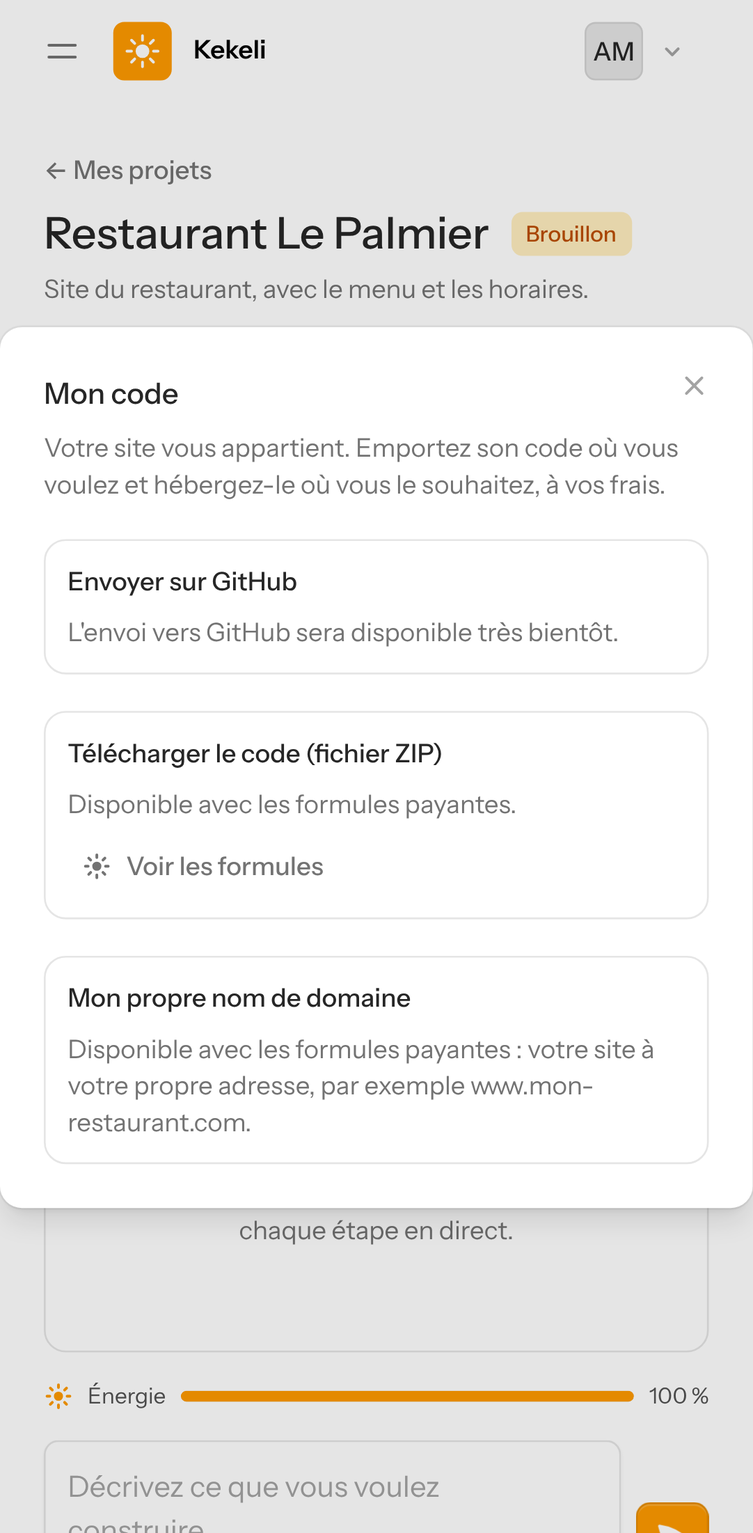
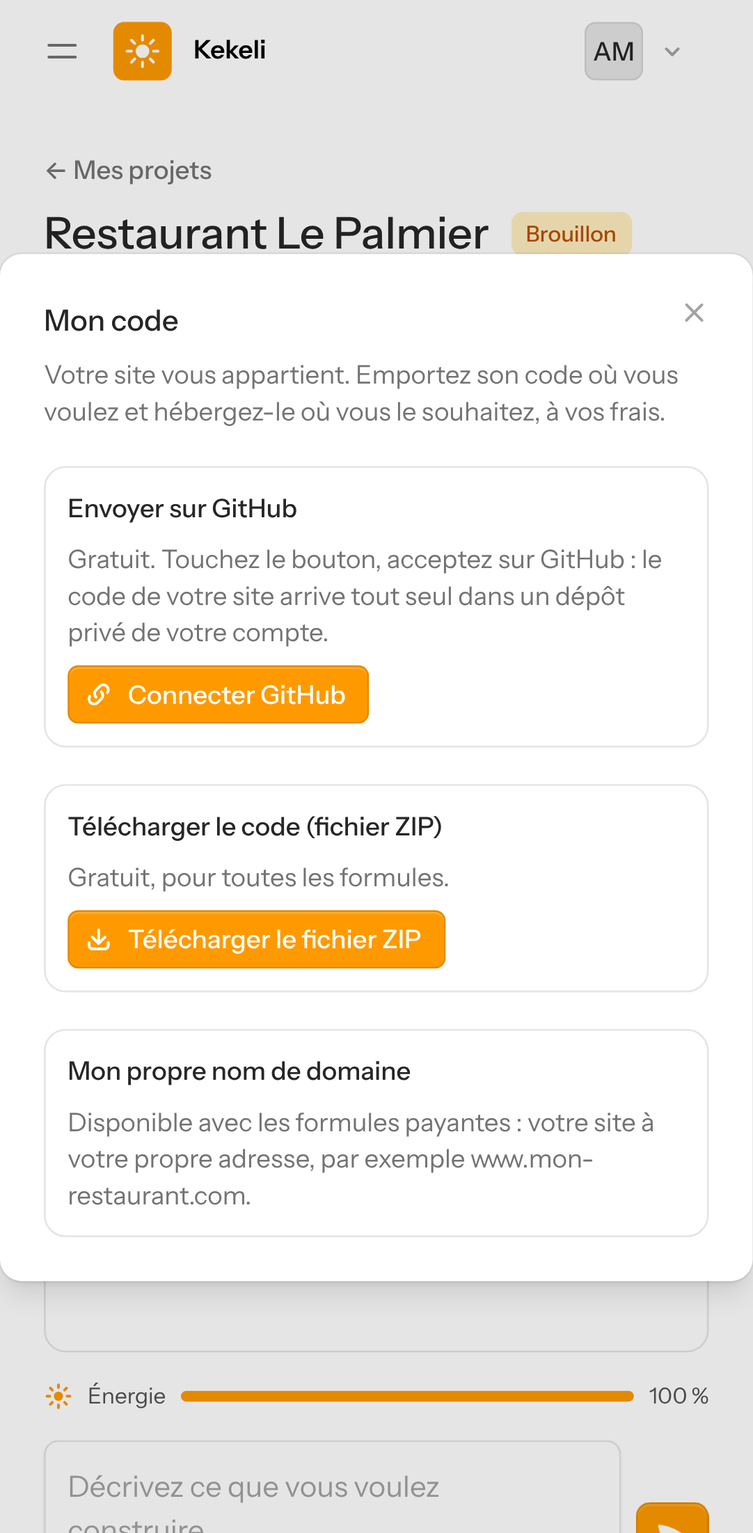
Code du client gratuit pour tous, alertes de sécurité corrigées, coût réel de la mise en ligne
- Récupérer son code est gratuit et se fait en un geste : « Connecter GitHub », la personne accepte, et le code part aussitôt dans un dépôt privé ; le fichier ZIP devient gratuit pour toutes les formules. Seul le nom de domaine du client reste payant.
- Plan : GitLab et Bitbucket plus tard, avec la même simplicité ; comparaison avec Lovable et v0.
- Composants Symfony mis à jour en version 7.4.23 : plus aucune alerte de sécurité de Composer.
- Tâche de fin des formules une fois par jour (0 h 07, heure de Lomé), pour laisser dormir le site et la base.
- docs/mise-en-ligne.md : abonnement par organisation, crédit déjà utilisé, limite de dépense valable pour toute l'organisation, coût réel de Kekeli en plus de la facture actuelle, deux solutions pour surveiller le coût sans jamais couper Talkami ni Lomé IA School.

Claude-Session: https://claude.ai/code/session_015PWp2nHrMWtdtRTiq6YtkN

Changed region(s): [[0.0, 0.1544, 1.0, 0.8647], [0.915, 0.6176, 0.9455, 0.6485], [0.915, 0.4632, 0.9455, 0.4941]]

diff --git a/tests/Feature/ClientCodeTest.php b/tests/Feature/ClientCodeTest.php
@@ -45,12 +45,13 @@ class ClientCodeTest extends TestCase
         $this->assertSame('<h1>Le Palmier</h1>', $files['index.html']);
     }
 
-    public function test_paid_formulas_download_the_code_in_a_zip_file(): void
+    public function test_every_formula_downloads_the_code_in_a_zip_file_for_free(): void
     {
-        $paying = User::factory()->create(['plan' => 'pro', 'plan_expires_at' => now()->addDays(10)]);
-        $project = $this->builtProject($paying);
+        $free = User::factory()->create();
+        $project = $this->builtProject($free);
 
-        $response = $this->actingAs($paying)->get(route('projects.code.zip', $project));
+        $this->actingAs($free)->get(route('projects.show', $project))->assertSee('Gratuit, pour toutes les formules.');
+        $response = $this->actingAs($free)->get(route('projects.code.zip', $project));
         $response->assertOk()->assertDownload($project->pagesName().'.zip');
 
         $zip = new ZipArchive;
@@ -59,15 +60,13 @@ class ClientCodeTest extends TestCase
         $this->assertFalse($zip->getFromName($project->pagesName().'/.env'));
         $zip->close();
 
-        // Formule gratuite : pas de fichier ZIP ; un autre utilisateur ne voit jamais le projet.
-        $free = User::factory()->create();
-        $this->actingAs($free)->get(route('projects.code.zip', $this->builtProject($free)))->assertForbidden();
-        $this->actingAs(User::factory()->create(['plan' => 'pro', 'plan_expires_at' => now()->addDay()]))->get(route('projects.code.zip', $project))->assertNotFound();
+        // Un autre utilisateur ne voit jamais le projet.
+        $this->actingAs(User::factory()->create())->get(route('projects.code.zip', $project))->assertNotFound();
     }
 
     // GitHub, pour toutes les formules
 
-    public function test_the_client_connects_github_then_sends_the_code_even_with_the_free_formula(): void
+    public function test_one_gesture_connects_github_and_sends_the_code_even_with_the_free_formula(): void
     {
         Queue::fake();
         $user = User::factory()->create();
@@ -75,10 +74,10 @@ class ClientCodeTest extends TestCase
 
         $this->actingAs($user)->get(route('projects.show', $project))
             ->assertSee('Mon code')
-            ->assertSee('Connecter mon compte GitHub');
+            ->assertSee('Connecter GitHub');
 
         // Connexion : GitHub demande l'accord du client, puis revient sur Kekeli avec un code à usage unique.
-        $redirect = $this->actingAs($user)->get(route('github.connect', ['retour' => route('projects.show', $project)]));
+        $redirect = $this->actingAs($user)->get(route('github.connect', ['projet' => $project->id]));
         $this->assertStringStartsWith('https://github.com/login/oauth/authorize?', $redirect->headers->get('Location'));
         parse_str(parse_url($redirect->headers->get('Location'), PHP_URL_QUERY), $query);
         $this->assertSame('repo', $query['scope']);
@@ -96,10 +95,24 @@ class ClientCodeTest extends TestCase
         // La clé est chiffrée dans la base de données.
         $this->assertStringNotContainsString('cle-du-client', (string) $user->getRawOriginal('github_token'));
 
-        $this->actingAs($user)->get(route('projects.show', $project))->assertSee('Compte GitHub connecté : ama-mensah');
-        Volt::actingAs($user)->test('projects.show', ['project' => $project])->call('exportToGithub');
+        // Le code part aussitôt, sans autre geste du client.
         $this->assertSame(Project::GITHUB_IN_PROGRESS, $project->fresh()->github_status);
-        Queue::assertPushed(ExportToGithub::class);
+        Queue::assertPushed(ExportToGithub::class, fn (ExportToGithub $job) => $job->project->is($project));
+        $this->actingAs($user)->get(route('projects.show', $project))
+            ->assertSee('Compte GitHub connecté : ama-mensah')
+            ->assertSee('Envoi de votre code sur GitHub…');
+
+        // Plus tard, « Envoyer à nouveau » renvoie la dernière version.
+        $project->forceFill(['github_status' => Project::GITHUB_DONE, 'github_repo' => 'ama-mensah/le-palmier'])->save();
+        Volt::actingAs($user)->test('projects.show', ['project' => $project])->call('exportToGithub');
+        Queue::assertPushed(ExportToGithub::class, 2);
+
+        // Le projet d'un autre utilisateur n'est jamais envoyé.
+        $other = $this->builtProject(User::factory()->create());
+        $redirect = $this->actingAs($user)->get(route('github.connect', ['projet' => $other->id]));
+        parse_str(parse_url($redirect->headers->get('Location'), PHP_URL_QUERY), $query);
+        $this->actingAs($user)->get(route('github.callback', ['code' => 'code-2', 'state' => $query['state']]));
+        $this->assertNull($other->fresh()->github_status);
     }
 
     public function test_a_wrong_state_is_refused_and_never_redirects_to_another_site(): void

diff --git a/resources/views/livewire/projects/show.blade.php b/resources/views/livewire/projects/show.blade.php
@@ -313,7 +313,7 @@ new class extends Component {
     }
 
     /**
-     * ZIP file and own domain name: paid formulas only.
+     * Own domain name: paid formulas only (the code itself, GitHub and ZIP, is free for everyone).
      */
     #[Computed]
     public function paidPlan(): bool
@@ -960,14 +960,14 @@ new class extends Component {
                 @unless ($project->backup_at)
                     <flux:text class="text-sm">{{ __('Once Kekeli has built your site, you can take its code here.') }}</flux:text>
                 @else
-                    {{-- GitHub : toutes les formules. --}}
+                    {{-- GitHub : gratuit pour toutes les formules. Un seul geste : « Connecter GitHub », on accepte, le code arrive tout seul. --}}
                     <div class="space-y-2 rounded-xl border border-zinc-200 p-3 dark:border-zinc-700" data-github="{{ $project->github_status ?? 'none' }}">
                         <flux:heading size="sm">{{ __('Send to GitHub') }}</flux:heading>
                         @if (! $this->githubConfigured)
                             <flux:text class="text-sm">{{ __('Sending to GitHub will be available very soon.') }}</flux:text>
                         @elseif (! Auth::user()->github_token)
-                            <flux:text class="text-sm">{{ __('Connect your GitHub account once: Kekeli will put the code of your site in a private repository of your account.') }}</flux:text>
-                            <flux:button size="sm" variant="primary" icon="link" :href="route('github.connect', ['retour' => route('projects.show', $project)])" data-github-connect>{{ __('Connect my GitHub account') }}</flux:button>
+                            <flux:text class="text-sm">{{ __('Free. Tap the button, accept on GitHub: the code of your site arrives by itself in a private repository of your account.') }}</flux:text>
+                            <flux:button size="sm" variant="primary" icon="link" :href="route('github.connect', ['projet' => $project->id])" data-github-connect>{{ __('Connect GitHub') }}</flux:button>
                         @else
                             <flux:text class="text-sm">{{ __('Connected GitHub account: :login', ['login' => Auth::user()->github_login]) }}</flux:text>
                             @if ($project->github_status === Project::GITHUB_IN_PROGRESS)
@@ -989,15 +989,11 @@ new class extends Component {
                         @endif
                     </div>
 
-                    {{-- ZIP : formules payantes. --}}
+                    {{-- ZIP : gratuit pour toutes les formules. --}}
                     <div class="space-y-2 rounded-xl border border-zinc-200 p-3 dark:border-zinc-700" data-zip>
                         <flux:heading size="sm">{{ __('Download the code (ZIP file)') }}</flux:heading>
-                        @if ($this->paidPlan)
-                            <flux:button size="sm" variant="primary" icon="arrow-down-tray" :href="route('projects.code.zip', $project)" data-zip-download>{{ __('Download the ZIP file') }}</flux:button>
-                        @else
-                            <flux:text class="text-sm">{{ __('Available with the paid formulas.') }}</flux:text>
-                            <flux:button size="sm" variant="subtle" icon="sun" :href="route('plans')" wire:navigate>{{ __('See the formulas') }}</flux:button>
-                        @endif
+                        <flux:text class="text-sm">{{ __('Free, for every formula.') }}</flux:text>
+                        <flux:button size="sm" variant="primary" icon="arrow-down-tray" :href="route('projects.code.zip', $project)" data-zip-download>{{ __('Download the ZIP file') }}</flux:button>
                     </div>
 
                     {{-- Nom de domaine : formules payantes, une fois le site publié. --}}

diff --git a/app/Http/Controllers/GithubController.php b/app/Http/Controllers/GithubController.php
@@ -3,6 +3,8 @@
 namespace App\Http\Controllers;
 
 use App\Github\GithubClient;
+use App\Jobs\ExportToGithub;
+use App\Models\Project;
 use Illuminate\Http\RedirectResponse;
 use Illuminate\Http\Request;
 use Illuminate\Support\Facades\Auth;
@@ -11,6 +13,8 @@ use Throwable;
 
 /**
  * Connection of the client's GitHub account, to send the code of their projects to it.
+ * One gesture, as in the best-known tools: « Connect GitHub », the client accepts on GitHub, and the code of the
+ * project is sent at once (private repository created automatically).
  */
 class GithubController extends Controller
 {
@@ -20,7 +24,9 @@ class GithubController extends Controller
 
         $state = Str::random(40);
         $request->session()->put('github_state', $state);
-        $request->session()->put('github_return', $this->returnUrl((string) $request->query('retour')));
+        $project = $this->ownProject((string) $request->query('projet'));
+        $request->session()->put('github_project', $project?->id);
+        $request->session()->put('github_return', $project ? route('projects.show', $project) : $this->returnUrl((string) $request->query('retour')));
 
         return redirect()->away($github->authorizeUrl($state));
     }
@@ -31,6 +37,7 @@ class GithubController extends Controller
 
         $expected = (string) $request->session()->pull('github_state');
         $return = (string) $request->session()->pull('github_return', route('projects.index'));
+        $project = $this->ownProject((string) $request->session()->pull('github_project'));
 
         if ($expected === '' || ! hash_equals($expected, (string) $request->query('state')) || ! $request->filled('code')) {
             return redirect($return)->with('github', 'refused');
@@ -46,6 +53,12 @@ class GithubController extends Controller
 
         Auth::user()->forceFill(['github_token' => $account['token'], 'github_login' => $account['login']])->save();
 
+        // Le code du projet part aussitôt : le client n'a rien d'autre à faire.
+        if ($project && $project->backup_at && $project->github_status !== Project::GITHUB_IN_PROGRESS) {
+            $project->forceFill(['github_status' => Project::GITHUB_IN_PROGRESS, 'github_error' => null])->save();
+            rescue(fn () => ExportToGithub::dispatch($project), report: true);
+        }
+
         return redirect($return)->with('github', 'connected');
     }
 
@@ -54,6 +67,11 @@ class GithubController extends Controller
         Auth::user()->forceFill(['github_token' => null, 'github_login' => null])->save();
 
         return back();
+    }
+
+    private function ownProject(string $id): ?Project
+    {
+        return $id === '' ? null : Auth::user()->projects()->whereKey($id)->first();
     }
 
     /**

diff --git a/resources/views/legal/conditions.blade.php b/resources/views/legal/conditions.blade.php
@@ -41,7 +41,7 @@
 
     <h2>7. À qui appartient votre projet ?</h2>
     <ul>
-        <li>Le code et les textes créés pour vous <strong>vous appartiennent</strong>. Vous pouvez les envoyer sur votre compte GitHub (toutes les formules) ou les télécharger en fichier ZIP (formules payantes), puis les héberger où vous voulez, à vos frais.</li>
+        <li>Le code et les textes créés pour vous <strong>vous appartiennent</strong>. Vous pouvez gratuitement, quelle que soit votre formule, les envoyer sur votre compte GitHub ou les télécharger en fichier ZIP, puis les héberger où vous voulez, à vos frais.</li>
         <li>Les photos que vous envoyez restent les vôtres.</li>
         <li>Les photos libres et les icônes ajoutées par Kekeli viennent de sources libres de droits ; leur origine et leur licence sont notées dans le fichier <code>LICENCES.md</code> de votre projet.</li>
     </ul>

diff --git a/app/Http/Controllers/ProjectCodeController.php b/app/Http/Controllers/ProjectCodeController.php
@@ -2,21 +2,19 @@
 
 namespace App\Http\Controllers;
 
-use App\Agent\Energy;
 use App\Agent\ProjectFiles;
 use App\Models\Project;
 use Illuminate\Support\Facades\Auth;
 use Symfony\Component\HttpFoundation\BinaryFileResponse;
 
 /**
- * Download of the code of a project in a ZIP file (paid formulas).
+ * Download of the code of a project in a ZIP file (free, for every formula).
  */
 class ProjectCodeController extends Controller
 {
-    public function zip(Project $project, ProjectFiles $files, Energy $energy): BinaryFileResponse
+    public function zip(Project $project, ProjectFiles $files): BinaryFileResponse
     {
         abort_unless($project->user_id === Auth::id(), 404);
-        abort_if($energy->isFree(Auth::user()), 403);
 
         try {
             $path = $files->zip($project);

diff --git a/routes/console.php b/routes/console.php
@@ -11,5 +11,6 @@ Artisan::command('inspire', function () {
 // Chaque nuit : effacement des ordinateurs restés en pause trop longtemps (les projets restent sauvegardés).
 Schedule::command('kekeli:effacer-ordinateurs-en-pause')->dailyAt('03:17');
 
-// Toutes les heures : retour à la formule gratuite quand les 30 jours d'une formule payée sont finis.
-Schedule::command('kekeli:expirer-formules')->hourlyAt(7);
+// Chaque jour : retour à la formule gratuite quand les 30 jours d'une formule payée sont finis. Une seule fois par
+// jour pour laisser le site et sa base de données s'endormir (l'énergie tient déjà compte de la date de fin).
+Schedule::command('kekeli:expirer-formules')->dailyAt('00:07')->timezone('Africa/Lome');

diff --git a/docs/mise-en-ligne.md b/docs/mise-en-ligne.md
@@ -1,32 +1,54 @@
 # Mise en ligne sur Laravel Cloud (étape 8)
 
-Rien n'est encore créé sur Laravel Cloud. **Rien de payant ne sera créé sans l'accord écrit du porteur du projet** (règle numéro 8). Prix relevés le 9 novembre 2026 sur les pages officielles de Laravel Cloud ([prix](https://laravel.com/cloud/docs/pricing), [ordinateurs](https://laravel.com/cloud/docs/compute), [files d'attente](https://laravel.com/cloud/docs/queues)). **Ce sont des estimations** tant qu'une vraie facture n'a pas été vue.
+Rien n'est encore créé sur Laravel Cloud. **Rien de payant ne sera créé sans l'accord écrit du porteur du projet** (règle numéro 8). Prix et règles relevés le 9 novembre 2026 sur les pages officielles de Laravel Cloud ([prix](https://laravel.com/cloud/docs/pricing), [organisations](https://laravel.com/cloud/docs/organizations), [limite de dépense](https://laravel.com/cloud/docs/spending-limits), [usage](https://laravel.com/cloud/docs/usage), [ordinateurs](https://laravel.com/cloud/docs/compute)). **Ce sont des estimations** tant qu'une vraie facture n'a pas été vue.
 
-## 1. Ce qui sera créé, et combien cela coûte
+## 1. Ce que dit la documentation officielle (vérifié le 9 novembre 2026)
 
-| Élément | Réglage | Prix officiel | Estimation par mois |
+- **L'abonnement est payé par organisation, pas par application** : « Every Laravel Cloud organization must have an active subscription » ; le nombre d'applications est « Unlimited » pour les formules Starter, Growth et Business. **Ajouter Kekeli dans l'organisation qui contient déjà Talkami et Lomé IA School ne demande pas un deuxième abonnement.**
+- **Le crédit de 5 $ par mois appartient à toute l'organisation.** Il est déjà utilisé par Talkami et Lomé IA School : tout ce que Kekeli consomme s'ajoute donc à la facture.
+- **La limite de dépense s'applique à toute l'organisation** (Organisation → Réglages → Facturation). Par défaut, elle **envoie seulement des alertes** (50 %, 80 %, 90 %) et ne coupe rien. L'option « Stop all compute » **met en pause toutes les applications et toutes les bases de données de l'organisation** : elle couperait Talkami et Lomé IA School. **Ne jamais activer cette option dans l'organisation actuelle.**
+- La page « Usage » montre le coût de chaque application (choix de l'application et de l'environnement) et de chaque base de données : on peut y suivre Kekeli séparément.
+
+## 2. Coût réel de Kekeli, en plus de la facture actuelle
+
+Prix officiels (région des États-Unis, Ohio ; ils peuvent varier selon la région) : petit ordinateur « Flex 512 Mo » 0,00893 $ par heure allumée ; base PostgreSQL serverless 0,25 unité environ 0,027 $ par heure active, plus 0,50 $ par Go et par mois ; espace de fichiers 0,02 $ par Go et par mois. Conversion : 1 $ = 590 FCFA. **Ce sont des estimations.**
+
+| Élément | Début de la bêta (peu d'utilisateurs) | Bêta active | Si l'élément reste allumé tout le temps |
 |---|---|---|---|
-| Abonnement « Starter » | Une organisation | 5 $ par mois, **31 premiers jours gratuits**, avec 5 $ de crédit d'utilisation chaque mois | 5 $ (environ 2 950 FCFA), 0 $ le premier mois |
-| Application « kekeli » (le site) | Ordinateur « Flex 512 Mo », qui s'endort sans visite | 0,00893 $ par heure allumée, 28 jours facturés au plus | 0,50 $ à 2 $ s'il dort la nuit ; 6 $ au plus s'il reste allumé |
-| Application « kekeli-runner » (le Runner) | Ordinateur « Flex 512 Mo », qui s'endort sans demande | 0,00893 $ par heure allumée, 28 jours au plus | 0,50 $ à 2 $ s'il dort ; 6 $ au plus s'il reste allumé |
-| Base de données PostgreSQL « serverless » | 0,25 unité, s'endort sans requête | environ 0,106 $ par heure pour 1 unité, soit environ 0,027 $ par heure pour 0,25 ; environ 0,50 $ par Go et par mois | 1 $ à 3 $ |
-| Espace de fichiers (« bucket ») | Sauvegardes des projets, photos, captures de paiement | 0,02 $ par Go et par mois ; sorties gratuites | moins de 0,10 $ |
-| Adresse | `….laravel.cloud`, gratuite | gratuit | 0 $ |
+| Site Kekeli (s'endort sans visite) | 0,50 à 1 $ | 1,50 à 2,50 $ | 6 $ |
+| Runner (s'endort sans demande) | 0,30 à 0,50 $ | 0,50 à 1,50 $ | 6 $ |
+| Base de données (s'endort sans requête) | 1,50 à 3 $ | 5 à 8 $ | 18 $ |
+| Espace de fichiers, stockage de la base | 0,50 $ | 0,60 $ | 0,60 $ |
+| **Total par mois** | **environ 3 à 5 $ (1 800 à 3 000 FCFA)** | **environ 8 à 13 $ (4 700 à 7 700 FCFA)** | 30 $ (17 700 FCFA) au plus |
 
-**Total estimé** : environ **5 à 6 $ par mois (3 000 à 3 600 FCFA)** avec la version qui s'endort, car le crédit de 5 $ couvre presque toute l'utilisation ; **environ 15 $ par mois (9 000 FCFA)** si le Runner et le site doivent rester allumés. **Premier mois gratuit.**
+Si la version qui s'endort n'est pas fiable pour le Runner, il faut ajouter environ **5 $ par mois (3 000 FCFA)** pour le garder allumé.
 
-Garde-fou proposé : une **limite de dépense de 10 $ par mois** (Organisation → Réglages → Facturation → Limite de dépense), avec les alertes à 50 %, 80 % et 90 %.
+Pour que tout puisse dormir la nuit, la tâche qui termine les formules payées passe d'une fois par heure à une fois par jour (à 0 h 07, heure de Lomé) : sinon elle réveillerait le site et la base de données chaque heure.
 
-Rappels : l'ordinateur virtuel E2B reste sur son crédit gratuit unique de 100 $ (offre « Hobby ») ; Gemini et Cloudflare restent gratuits ; le nom de domaine kekeli.dev n'est pas acheté (adresse gratuite en `laravel.cloud` pour le moment).
+## 3. Surveiller le coût de Kekeli sans jamais couper Talkami ni Lomé IA School
 
-## 2. Version qui s'endort : comment Kekeli reste éveillé quand il le faut
+**Solution A — Kekeli dans l'organisation actuelle (aucun abonnement en plus)**
+- Limite de dépense en mode **alertes seulement** (le réglage par défaut, « Stop all compute » désactivé) : montant = facture habituelle + 10 $. Les alertes arrivent par courriel à 50 %, 80 % et 90 %. Rien n'est jamais coupé.
+- Réglages qui plafonnent Kekeli lui-même : plus petit ordinateur (Flex 512 Mo), une seule copie (pas de mise à l'échelle), « Scale to zero » activé, base de données plafonnée à 0,25 unité avec mise en sommeil.
+- Chaque semaine : page « Usage », application « kekeli », pour voir son coût exact.
 
-- **Le site** se réveille à chaque visite (moins d'une demi-seconde). Pendant qu'une demande travaille, le Runner envoie sans arrêt les étapes de l'agent au site : il reste donc éveillé. Le planificateur de Laravel Cloud réveille le site pour ses tâches (chaque heure à 7 minutes, et chaque nuit à 3 h 17).
+**Solution B — une organisation séparée « Kekeli » (vrai plafond, sans risque pour les autres sites)**
+- Elle demande son propre abonnement Starter de 5 $ par mois, **mais celui-ci contient 5 $ de crédit d'utilisation**. Dès que Kekeli consomme au moins 5 $ par mois (la bêta active), **le coût total est le même** qu'avec la solution A.
+- On peut alors y activer « Stop all compute » avec une limite de 15 $ : seul Kekeli s'arrête si la limite est atteinte, jamais Talkami ni Lomé IA School. La facture de Kekeli est aussi séparée.
+- Inconvénient : au tout début, si Kekeli consomme moins de 5 $, on paie 5 $ quand même (au lieu de 3 à 5 $).
+
+**Recommandation** : la solution B, pour avoir un vrai plafond qui ne touche jamais vos autres sites. Le coût est d'environ **5 $ par mois au début (2 950 FCFA)**, puis de **8 à 13 $ (4 700 à 7 700 FCFA)** quand la bêta sera active.
+
+Rappels : les ordinateurs E2B restent sur leur crédit gratuit unique de 100 $ ; Gemini et Cloudflare restent gratuits ; kekeli.dev n'est pas acheté.
+
+## 4. Version qui s'endort : comment Kekeli reste éveillé quand il le faut
+
+- **Le site** se réveille à chaque visite (moins d'une demi-seconde). Pendant qu'une demande travaille, le Runner envoie sans arrêt les étapes de l'agent au site : il reste donc éveillé. Le planificateur de Laravel Cloud réveille le site pour ses deux tâches de nuit (à 0 h 07, heure de Lomé, et à 3 h 17).
 - **Le Runner** ne reçoit rien de l'extérieur pendant qu'il travaille. Pour ne pas s'endormir en plein travail, il appelle sa propre adresse publique chaque minute tant qu'une demande est en cours (variable `KEKELI_RUNNER_ADRESSE_PUBLIQUE`), puis il se laisse endormir.
 - **Les ordinateurs E2B** ont leur propre minuterie chez E2B : un Runner endormi ne laisse jamais un ordinateur allumé.
 - **À vérifier pendant l'essai réel** : qu'une demande complète va jusqu'au bout sans coupure, que la publication fonctionne, et que le réveil après une nuit fonctionne. Si ce n'est pas fiable, on passe le Runner en version toujours allumée (environ 6 $ par mois de plus, estimation) et on prévient le porteur du projet.
 
-## 3. Réglages des deux applications
+## 5. Réglages des deux applications
 
 ### Application « kekeli » (le site)
 - Dépôt : `kekeli`, branche `main`.
@@ -44,7 +66,7 @@ Rappels : l'ordinateur virtuel E2B reste sur son crédit gratuit unique de 100 $
 - Démarrage : `node runner/src/server.js`.
 - Variables : `KEKELI_RUNNER_SECRET` (le même que le site), `KEKELI_RUNNER_HOTE=0.0.0.0`, `KEKELI_RUNNER_ADRESSE_PUBLIQUE` (l'adresse du Runner en `laravel.cloud`), et les clés : `E2B_API_KEY`, `GEMINI_API_KEY`, `CLOUDFLARE_API_TOKEN`, `CLOUDFLARE_ACCOUNT_ID` (et, s'il y en a, `OPENROUTER_API_KEY`, `MISTRAL_API_KEY`, `PEXELS_API_KEY`). **Le Runner est le seul endroit qui détient les clés.**
 
-## 4. Application GitHub (gratuite), après la mise en ligne
+## 6. Application GitHub (gratuite), après la mise en ligne
 
 Pour l'envoi du code des clients vers GitHub, il faut une « OAuth App » de Kekeli, créée une fois sur GitHub (Réglages → Developer settings → OAuth Apps → New OAuth App), avec :
 - nom : Kekeli ;

diff --git a/CLAUDE.md b/CLAUDE.md
@@ -128,7 +128,7 @@ kekeli.dev, à acheter avant la mise en ligne.
 ### Pays, file d'attente et code du client (étape 8, 9 novembre 2026)
 - **Site ouvert à tous les pays du monde** (liste en français dans `resources/data/pays-du-monde.php`). Pendant la bêta, Union européenne, Espace économique européen, Royaume-Uni et Suisse voient « Bientôt disponible dans votre pays » (pays choisi ou pays de connexion) ; ouverts avec la clé Claude, à la fin du projet.
 - **10 demandes en même temps au plus** (réglable) ; les suivantes attendent leur tour dans l'ordre, avec leur position, sans rien perdre.
-- **Code du client** : envoi vers GitHub pour **toutes les formules** (dépôt privé dans le compte du client) ; fichier ZIP et nom de domaine du client pour les formules payantes. Une fois le code chez lui, le client l'héberge où il veut, à ses frais. GitLab plus tard.
+- **Code du client : récupérer son code est GRATUIT et très simple pour tout le monde** (décision du 9 novembre 2026, comme Lovable) : un bouton « Connecter GitHub », la personne accepte, et le code part tout seul dans un dépôt privé de son compte ; le fichier ZIP est gratuit aussi. **Seuls l'énergie et les fonctions avancées sont payants** (par exemple brancher son propre nom de domaine). Une fois le code chez lui, le client l'héberge où il veut, à ses frais. **GitLab et Bitbucket plus tard, avec la même simplicité.**
 - **Conditions d'utilisation et politique de confidentialité** : pages `/conditions-d-utilisation` et `/confidentialite`, acceptées à l'inscription. À faire relire par un juriste avant le lancement public.
 
 ### Publication des sites des clients
@@ -138,6 +138,7 @@ kekeli.dev, à acheter avant la mise en ligne.
 
 ### Hébergement
 - **Le site n'est pas mis en ligne sur Laravel Cloud tout de suite.** Le porteur du projet le fera plus tard ; en attendant, chaque étape est montrée par des captures d'écran (règle numéro 9).
+- **Compte Laravel Cloud du porteur du projet** : déjà payant, avec Talkami et Lomé IA School en production. L'abonnement est payé par organisation (pas de deuxième abonnement pour une application de plus) ; le crédit de 5 $ est déjà utilisé par les deux autres sites. **Ne jamais activer « Stop all compute » dans cette organisation** : la limite de dépense s'applique à toute l'organisation et couperait les autres sites. Solutions et coûts : `docs/mise-en-ligne.md`.
 - **Choix du 9 novembre 2026** : Laravel Cloud (compte existant du porteur du projet), adresse gratuite en `laravel.cloud`, deux applications (site et Runner). Essayer d'abord la version **qui s'endort** avec un vrai essai ; si ce n'est pas fiable, passer le Runner en version toujours allumée et le dire. Guide et coûts : `docs/mise-en-ligne.md`. **Rien de payant n'est créé avant la réponse du porteur du projet.**
 - L'hébergement devient **indispensable à l'étape 8** (version bêta avec de vrais utilisateurs et des paiements). Il est **conseillé dès l'étape 6**, pour que le porteur du projet puisse essayer lui-même l'agent sur son téléphone avant la bêta.
 - Sans hébergement, les étapes 2 à 7 se construisent et se testent dans l'environnement de développement de Claude. À partir de l'étape 2, cela demande une clé Gemini (Google AI Studio) et une clé E2B, placées par le porteur du projet dans les réglages de l'environnement sous les noms `GEMINI_API_KEY` et `E2B_API_KEY` (et, s'il le souhaite, `OPENROUTER_API_KEY` et `MISTRAL_API_KEY`), jamais dans un message. **Ne pas commencer l'étape 2 avant que le porteur du projet ait écrit « clés placées ».**
@@ -159,8 +160,8 @@ Le plan détaillé et à jour est dans [`docs/plan.md`](docs/plan.md).
 | 5 | Consommation, quotas, mesure réelle des coûts, comparaison des modèles, messages de limite « énergie qui se recharge », administration, effacement des ordinateurs en pause après 7 jours | Terminée, validée le 9 novembre 2026 avec les choix de formules (coûts : `docs/couts.md` ; captures : `docs/captures/etape-5.md`) |
 | 6 | Qualité « site professionnel » : photos du client d'abord, photos libres choisies et floutées par Kekeli, création d'images gratuite, pays du client, icônes Lucide, comparaison des meilleurs modèles gratuits | Terminée, validée le 9 novembre 2026 ; ajouts : création d'images Cloudflare avec maximum par jour, arrêt et reprise quand l'énergie est épuisée (captures : `docs/captures/etape-6.md` et `docs/captures/etape-6-ajouts.md`) |
 | 7 | Publication en un clic sur Cloudflare (`pages.dev`) : bouton « Publier mon site », « Publier à nouveau », publication de la dernière sauvegarde par le Runner | Terminée, validée le 9 novembre 2026 ; corrections du modèle de mise en page (captures : `docs/captures/etape-7.md` et `docs/captures/etape-7-corrections.md`) |
-| 8 | Paiement Mobile Money par capture d'écran validée par l'administrateur, prix publiés, tous les pays et pays bientôt disponibles, file d'attente, code du client (GitHub, ZIP, nom de domaine), conditions d'utilisation et politique de confidentialité, mise en ligne sur Laravel Cloud, version bêta | En cours : tout est construit et testé (captures : `docs/captures/etape-8.md`) ; mise en ligne en attente de l'accord du porteur du projet sur les coûts |
-| Plus tard | Envoi vers GitLab ; interface en anglais ; clé Claude (fin du projet) et ouverture des pays européens ; modèles payants pour les abonnés ; achat de kekeli.dev | À faire |
+| 8 | Paiement Mobile Money par capture d'écran validée par l'administrateur, prix publiés, tous les pays et pays bientôt disponibles, file d'attente, code du client (GitHub et ZIP gratuits pour tous, nom de domaine payant), conditions d'utilisation et politique de confidentialité, mise en ligne sur Laravel Cloud, version bêta | En cours : tout est construit et testé (captures : `docs/captures/etape-8.md`) ; mise en ligne en attente de l'accord du porteur du projet sur les coûts |
+| Plus tard | Envoi vers GitLab et Bitbucket (même simplicité que GitHub) ; interface en anglais ; clé Claude (fin du projet) et ouverture des pays européens ; modèles payants pour les abonnés ; achat de kekeli.dev | À faire |
 
 ## Repères techniques
 
@@ -177,7 +178,7 @@ Le plan détaillé et à jour est dans [`docs/plan.md`](docs/plan.md).
 - Publication (étape 7) : côté Runner `runner/src/publication.js` (envoi « Direct Upload » à Cloudflare Pages, empreintes avec `blake3-wasm`) et adresse signée `POST /publier` ; côté site `app/Jobs/PublishProject.php`, `RunnerClient::publish`, `Project::pagesName()`, colonnes `projects.pages_name`, `publish_status`, `published_url`, `published_at`, `publish_error`, bouton dans `projects/show.blade.php`. Essais : `scripts/essai-etape-7.js` et `scripts/essai-republication.js`.
 - Typographie française : `runner/src/qualite/typographie.mjs`, lancé dans l'ordinateur après chaque demande, avant les vérifications (espaces insécables avant ? ! : ; , dans les guillemets et les prix).
 - Qualité (étape 6) : modèle de mise en page `runner/src/modeles/base.css`, vérification des pages `runner/src/qualite/verifier.mjs` et des images `runner/src/qualite/images.js` après chaque demande (l'agent corrige une fois tout seul), relance d'un tour terminé sans message. L'agent ne doit jamais inventer une adresse d'image. Essai réel : `scripts/essai-etape-6.js`.
-- Étape 8 : paiements `app/Billing/Subscriptions.php`, modèle `Payment`, pages Volt `payments/create` et `admin/payments`, commande `kekeli:expirer-formules` (chaque heure), rappel `components/plan-reminder.blade.php` ; pays `app/Support/Availability.php` (`coming_soon_countries`) ; file d'attente `app/Agent/AgentPlaces.php` (colonne `agent_runs.sent_at`, réglage `max_concurrent_runs`) ; code du client `app/Agent/ProjectFiles.php` (lecture des sauvegardes, ZIP), `app/Github/GithubClient.php`, `app/Jobs/ExportToGithub.php`, `GithubController`, `ProjectCodeController`, Runner `src/domaines.js` (adresse `POST /domaine`) ; pages juridiques `resources/views/legal/` ; Runner éveillé pendant le travail (`garderEveille`, `KEKELI_RUNNER_ADRESSE_PUBLIQUE`). Captures : `scripts/preparer-captures-etape-8.php` et `scripts/captures-etape-8.js`.
+- Étape 8 : paiements `app/Billing/Subscriptions.php`, modèle `Payment`, pages Volt `payments/create` et `admin/payments`, commande `kekeli:expirer-formules` (chaque jour à 0 h 07, heure de Lomé, pour laisser dormir le site et la base), rappel `components/plan-reminder.blade.php` ; pays `app/Support/Availability.php` (`coming_soon_countries`) ; file d'attente `app/Agent/AgentPlaces.php` (colonne `agent_runs.sent_at`, réglage `max_concurrent_runs`) ; code du client `app/Agent/ProjectFiles.php` (lecture des sauvegardes, ZIP), `app/Github/GithubClient.php`, `app/Jobs/ExportToGithub.php`, `GithubController`, `ProjectCodeController`, Runner `src/domaines.js` (adresse `POST /domaine`) ; pages juridiques `resources/views/legal/` ; Runner éveillé pendant le travail (`garderEveille`, `KEKELI_RUNNER_ADRESSE_PUBLIQUE`). Captures : `scripts/preparer-captures-etape-8.php` et `scripts/captures-etape-8.js`.
 - Administration : pages `/administration/fournisseurs`, `/administration/projets`, `/administration/consommation`, `/administration/paiements` et `/administration/reglages`, réservées aux comptes administrateurs (`php artisan kekeli:admin adresse`) ; l'administrateur peut consulter un projet en lecture seule.
 - Un utilisateur ne voit et ne modifie que ses propres projets : toujours passer par `Auth::user()->projects()` ou vérifier le propriétaire (réponse 404 sinon).
 - Commandes utiles :

diff --git a/docs/plan.md b/docs/plan.md
@@ -380,9 +380,10 @@ La description envoyée au service de création interdit tout texte ; Kekeli reg
 - **Paiement Mobile Money par capture d'écran** : pays, numéros et titulaire affichés, envoi de la capture seule, validation ou refus dans Administration → Paiements, formule active 30 jours, rappel 3 jours avant la fin, retour à la formule gratuite. Numéros modifiables dans l'administration. Prix publiés.
 - **Tous les pays du monde** ; Union européenne, Espace économique européen, Royaume-Uni et Suisse « bientôt disponibles » pendant la bêta (offre gratuite de Gemini interdite).
 - **File d'attente** : 10 demandes en même temps au plus (offre « Hobby » d'E2B : 10 ordinateurs allumés), les suivantes attendent leur tour, dans l'ordre, avec leur position.
-- **Code du client** : GitHub pour tous (dépôt privé), ZIP et nom de domaine du client pour les formules payantes (essai réel du rattachement d'un nom de domaine chez Cloudflare réussi).
+- **Code du client, gratuit pour tous** : un bouton « Connecter GitHub », la personne accepte sur GitHub, et le code part aussitôt dans un dépôt privé créé automatiquement ; fichier ZIP gratuit aussi. Seul le nom de domaine du client (fonction avancée) est payant ; essai réel du rattachement d'un nom de domaine chez Cloudflare réussi.
+- **Comparaison avec les outils connus** (documentation officielle lue le 9 novembre 2026) : Lovable propose GitHub, GitLab et Bitbucket sur toutes ses formules, y compris la gratuite, avec création automatique d'un dépôt privé et synchronisation dans les deux sens ; il passe par une « application GitHub » installée sur le compte (et par une connexion OAuth pour GitLab et Bitbucket) ; son téléchargement direct du code est réservé aux formules payantes. v0 crée aussi un dépôt privé en quelques gestes. Kekeli fait aussi simple pour l'envoi, et va plus loin pour le ZIP (gratuit).
 - **Conditions d'utilisation et politique de confidentialité** (loi togolaise numéro 2019-014), acceptées à l'inscription. À faire relire par un juriste.
-- **Mise en ligne préparée** : `docs/mise-en-ligne.md` (réglages, prix officiels, estimation de 5 à 6 $ par mois avec la version qui s'endort, premier mois gratuit). Rien n'est créé sans l'accord du porteur du projet.
+- **Mise en ligne préparée** : `docs/mise-en-ligne.md` (réglages, prix officiels, coût réel en plus de la facture actuelle du porteur du projet, surveillance du coût sans jamais couper ses autres sites). Rien n'est créé sans l'accord du porteur du projet.
 
 ### Reste à faire pour la bêta
 1. Accord du porteur du projet sur les coûts, puis création des deux applications sur Laravel Cloud.
@@ -391,7 +392,8 @@ La description envoyée au service de création interdit tout texte ; Kekeli reg
 4. Relecture des pages juridiques par un juriste.
 
 ### Plus tard
-- Envoi vers **GitLab** (même principe que GitHub).
+- Envoi vers **GitLab** et **Bitbucket**, avec la même simplicité qu'avec GitHub : un bouton « Connecter GitLab » ou « Connecter Bitbucket », la personne accepte, et le code part tout seul (connexion OAuth gratuite, comme Lovable).
+- Plus tard aussi : passer d'une application OAuth à une « application GitHub » (droits limités aux dépôts choisis), et synchroniser dans les deux sens comme Lovable (les modifications faites sur GitHub reviennent dans Kekeli).
 - Interface en **anglais** (fichier `lang/en.json` et pages juridiques en anglais).
 - **Clé Claude** à la fin du projet : modèles payants pour les abonnés et ouverture des pays européens.
 - Achat de **kekeli.dev**.

diff --git a/docs/captures/etape-8.md b/docs/captures/etape-8.md
@@ -58,8 +58,8 @@ Captures prises le 9 novembre 2026 sur un téléphone simulé (Pixel 7, navigate
 ### 16. Nom de domaine : l'enregistrement à ajouter chez le vendeur, puis « Vérifier maintenant »
 ![Nom de domaine](etape-8/16-nom-de-domaine-cname.png)
 
-### 17. « Mon code » avec la formule gratuite : le fichier ZIP et le nom de domaine sont réservés aux formules payantes
-L'envoi vers GitHub affiche « bientôt » tant que l'application GitHub de Kekeli n'est pas créée (après la mise en ligne).
+### 17. « Mon code » avec la formule gratuite : GitHub et le fichier ZIP sont gratuits ; seul le nom de domaine est payant
+Avec l'application GitHub de Kekeli (créée après la mise en ligne), le bouton « Connecter GitHub » apparaît : on accepte sur GitHub, et le code part tout seul.
 ![Mon code gratuit](etape-8/17-mon-code-formule-gratuite.png)
 
 ## Partie 5 — Pays et file d'attente
